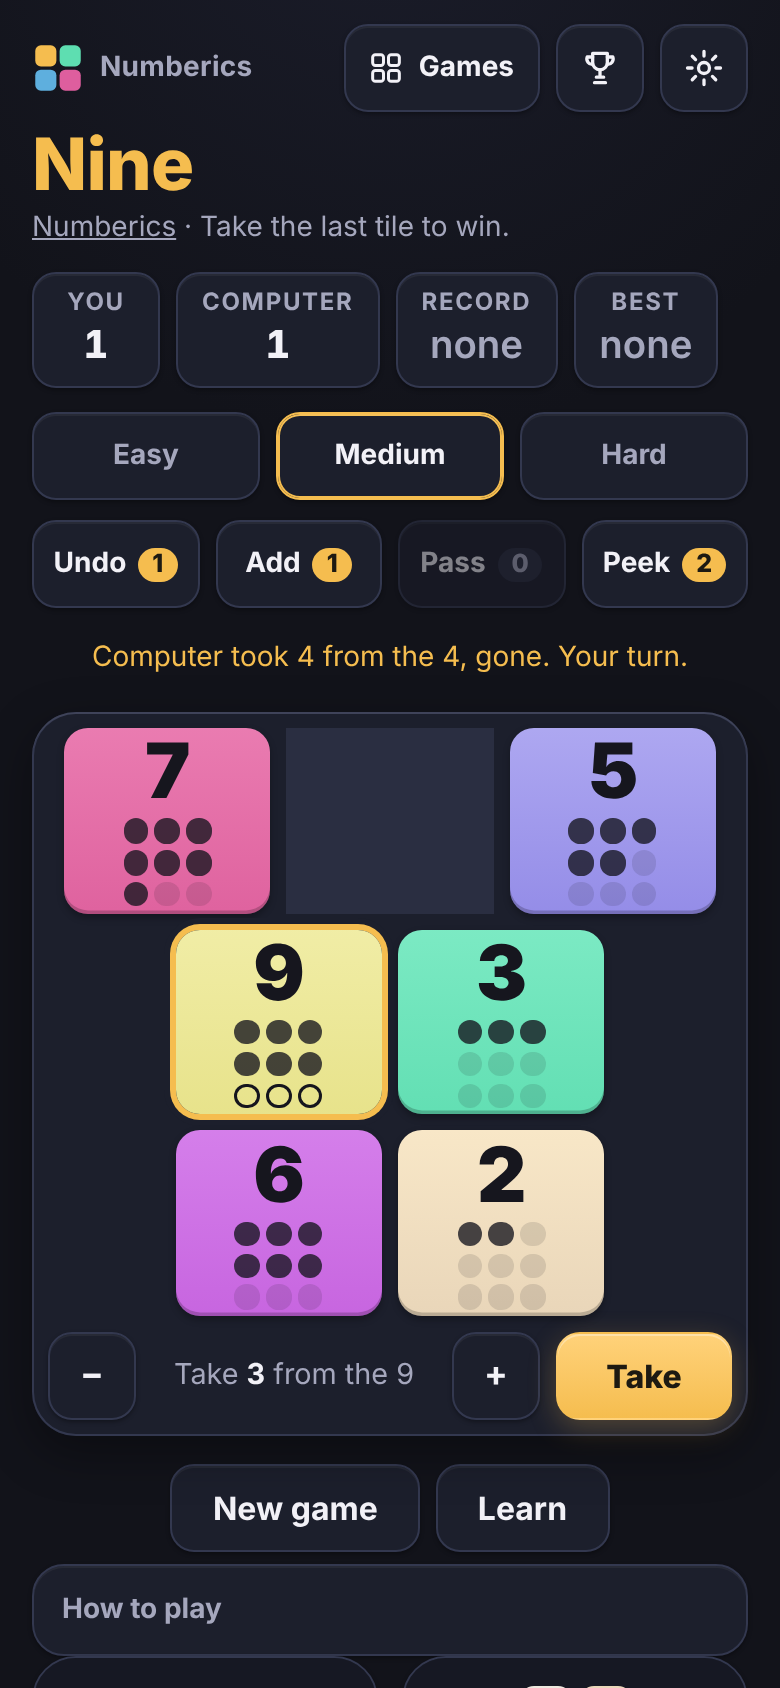
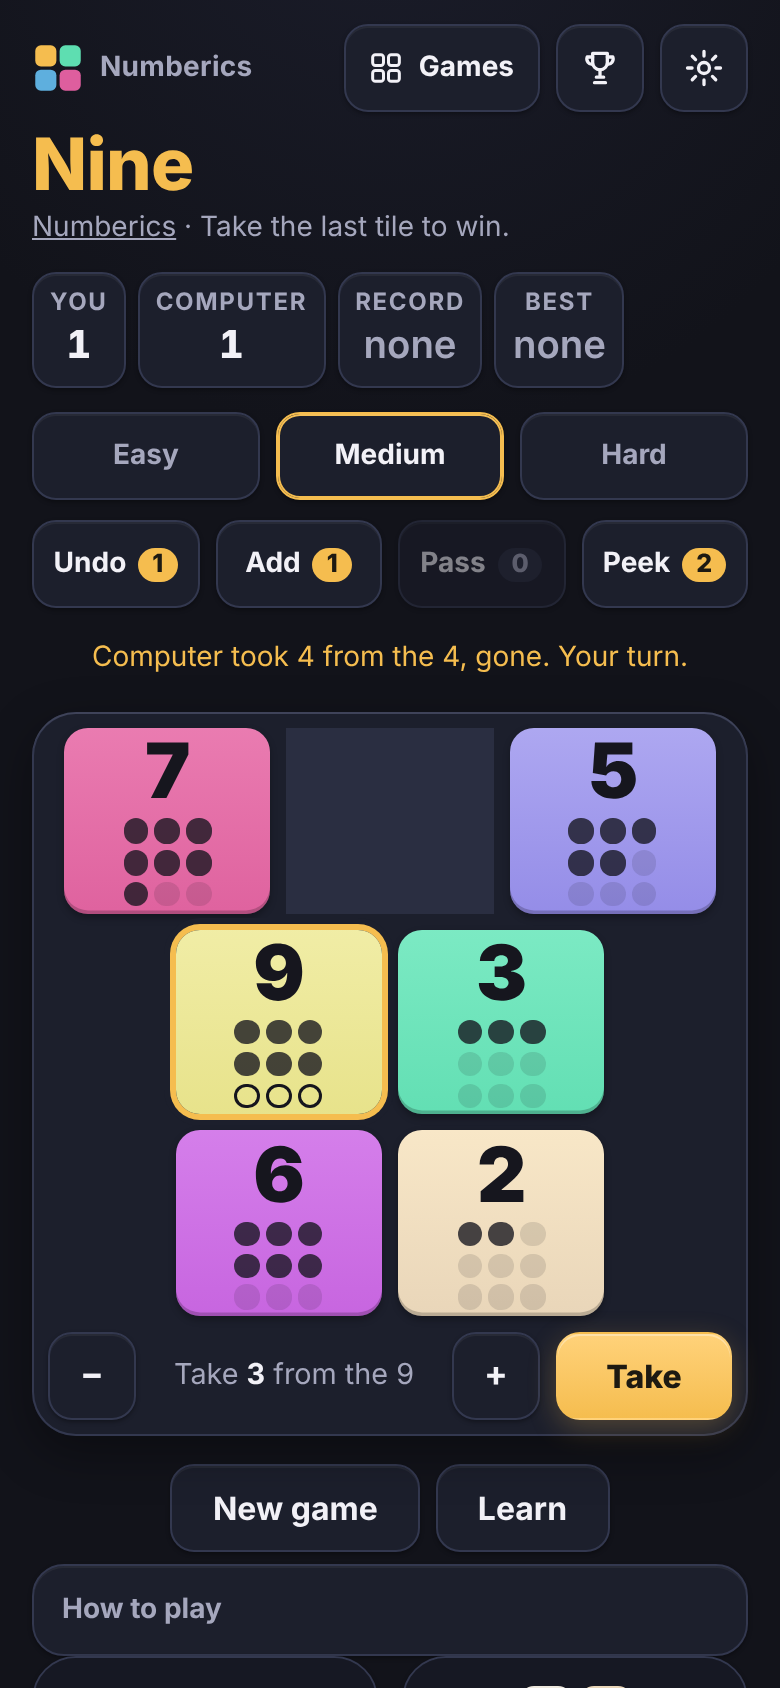
Integration pass: every gate green on a quiet machine
Sheet focus and key guard fixed (Three's crash); first-tap long task cut by
building music buffers and the reverb in short tasks (identical audio, tested);
trophy pills scroll inside end cards; quiet reports set the cup dot; family
trophies earned mid-play wait for an idle moment; four-pill stat rows at
361-420 px; card previews no longer pick up page CSS; root Today card keeps
its height (load CLS 0.057 -> 0.017); Fifteen win line hidden until drawn.
npm test 818/0; browser 140 + 1750, 0 failed; full perf gate PASS.

Changed region(s): [[0.0615, 0.154, 0.9231, 0.2156]]

diff --git a/style.css b/style.css
@@ -251,6 +251,9 @@ details.how p{ margin:0 14px 12px; color:var(--mute); font-size:var(--fs-sm); }
 .tag.new{ color:var(--good); background:color-mix(in srgb, var(--good) 14%, transparent); }
 .today{ background:linear-gradient(160deg, var(--panel-2), var(--panel)); border:1px solid var(--line); border-radius:var(--r-lg);
   padding:14px 16px; margin:0 0 20px; box-shadow:var(--sh-2); }
+/* the root page draws Today from nav.js after the first paint: the empty card keeps its drawn height until then, so the
+   heading and the cards below it never jump on load (integration: desktop load CLS 0.057 > 0.05) */
+#today.today:empty{ min-height:146px; }
 .today .when{ display:flex; justify-content:space-between; align-items:center; font-size:var(--fs-sm); color:var(--mute); font-weight:650; }
 .today .streak{ display:flex; align-items:center; gap:6px; color:var(--accent-text); font-weight:800; }
 .today .streak svg{ width:18px; height:18px; fill:none; stroke:currentColor; stroke-width:1.7; stroke-linecap:round; stroke-linejoin:round; }
@@ -271,8 +274,8 @@ details.how p{ margin:0 14px 12px; color:var(--mute); font-size:var(--fs-sm); }
 .pv .sq9 span.c{ color:var(--cool); }
 .pv .eq{ display:flex; gap:4px; align-items:center; font-weight:850; font-size:13px; }
 .pv .eq .op{ color:var(--mute); }
-.pv .pips{ display:grid; grid-template-columns:repeat(3,4px); gap:2px; margin-top:2px; }
-.pv .pips i{ width:4px; height:4px; border-radius:50%; background:var(--tile-ink); opacity:.75; }
+.pv .pips{ display:grid; grid-template-columns:repeat(3,4px); gap:2px; margin-top:2px; min-height:auto; } /* min-height: Seven's own .pips sets one */
+.pv .pips i{ width:4px; height:4px; border:0; border-radius:50%; background:var(--tile-ink); opacity:.75; } /* border:0: a game page's own .pips i (Five, Six, Seven) never rings the Nine card's dots */
 .foot-note{ color:var(--faint); font-size:var(--fs-xs); text-align:center; margin:22px 0 4px; }
 
 /* ===== reduced motion: the OS query until settings.js drives html[data-motion] (B1) ===== */

diff --git a/shared/theme.css b/shared/theme.css
@@ -83,6 +83,12 @@ h1{ margin:0; font-size:var(--fs-2xl); line-height:1.05; letter-spacing:-.01em; 
 .stat > span{ display:block; font-size:var(--fs-xs); font-weight:650; text-transform:uppercase; letter-spacing:.07em; color:var(--mute); }
 .stat b{ font-size:var(--fs-lg); font-weight:800; font-variant-numeric:tabular-nums; }
 .stat b.none,.stat .none{ color:var(--mute); font-weight:600; font-size:var(--fs-lg); }
+/* a row of four pills (Four, Nine) keeps one row on phones from 361 to 420 px wide, where an empty value ("none") made
+   the last pill wrap alone (integration): a little less side padding and gap; rows that fit look the same elsewhere */
+@media (min-width:361px) and (max-width:420px){
+  .stats:has(> .stat:nth-child(4)){ gap:6px; }
+  .stats:has(> .stat:nth-child(4)) > .stat{ padding-left:8px; padding-right:8px; min-width:0; }
+}
 
 /* ===== power-up tray: 4 slots, gold count badges ===== */
 .tray{ display:grid; grid-template-columns:repeat(4,1fr); gap:8px; margin-bottom:6px; }
@@ -259,8 +265,8 @@ details.how p{ margin:0 14px 12px; color:var(--mute); font-size:var(--fs-sm); }
 .pv .sq9 span.c{ color:var(--cool); }
 .pv .eq{ display:flex; gap:4px; align-items:center; font-weight:850; font-size:13px; }
 .pv .eq .op{ color:var(--mute); }
-.pv .pips{ display:grid; grid-template-columns:repeat(3,4px); gap:2px; margin-top:2px; }
-.pv .pips i{ width:4px; height:4px; border-radius:50%; background:var(--tile-ink); opacity:.75; }
+.pv .pips{ display:grid; grid-template-columns:repeat(3,4px); gap:2px; margin-top:2px; min-height:auto; } /* min-height: Seven's own .pips sets one */
+.pv .pips i{ width:4px; height:4px; border:0; border-radius:50%; background:var(--tile-ink); opacity:.75; } /* border:0: a game page's own .pips i (Five, Six, Seven) never rings the Nine card's dots */
 .foot-note{ color:var(--faint); font-size:var(--fs-xs); text-align:center; margin:22px 0 4px; }
 
 /* ===== reduced motion: the OS query until settings.js drives html[data-motion] (B1) ===== */

diff --git a/fifteen/game.js b/fifteen/game.js
@@ -235,7 +235,8 @@
   }
   // the winning line in Grid view: one SVG line through the three centres, drawn by stroke-dashoffset (5.8, as Four)
   var wl = $("wl"), wlLine = wl.firstElementChild;
-  function clearLine() { wl.hidden = true; }
+  // an <svg> has no `hidden` property (only HTML elements do): set the attribute, which .wl[hidden] hides
+  function clearLine() { wl.setAttribute("hidden", ""); }
   function drawLine() {
     var res = state.result;
     if (!res || !res.line || view !== "grid") return clearLine();
@@ -245,7 +246,7 @@
     var x1 = ra.left + ra.width / 2 - base.left, y1 = ra.top + ra.height / 2 - base.top;
     var x2 = rb.left + rb.width / 2 - base.left, y2 = rb.top + rb.height / 2 - base.top, len = Math.hypot(x2 - x1, y2 - y1);
     wlLine.setAttribute("x1", x1); wlLine.setAttribute("y1", y1); wlLine.setAttribute("x2", x2); wlLine.setAttribute("y2", y2);
-    wlLine.style.strokeDasharray = len; wlLine.style.strokeDashoffset = 0; wl.hidden = false;
+    wlLine.style.strokeDasharray = len; wlLine.style.strokeDashoffset = 0; wl.removeAttribute("hidden");
     var an = M.play(wlLine, [{ strokeDashoffset: len }, { strokeDashoffset: 0 }], { duration: M.T.line, easing: M.E.out }, [{ opacity: 0 }, { opacity: 1 }]);
     if (an) anims.push(an);
   }

diff --git a/sudoku/style.css b/sudoku/style.css
@@ -240,8 +240,8 @@ details.how p{ margin:0 14px 12px; color:var(--mute); font-size:var(--fs-sm); }
 .pv .sq9 span.c{ color:var(--cool); }
 .pv .eq{ display:flex; gap:4px; align-items:center; font-weight:850; font-size:13px; }
 .pv .eq .op{ color:var(--mute); }
-.pv .pips{ display:grid; grid-template-columns:repeat(3,4px); gap:2px; margin-top:2px; }
-.pv .pips i{ width:4px; height:4px; border-radius:50%; background:var(--tile-ink); opacity:.75; }
+.pv .pips{ display:grid; grid-template-columns:repeat(3,4px); gap:2px; margin-top:2px; min-height:auto; } /* min-height: Seven's own .pips sets one */
+.pv .pips i{ width:4px; height:4px; border:0; border-radius:50%; background:var(--tile-ink); opacity:.75; } /* border:0: a game page's own .pips i (Five, Six, Seven) never rings the Nine card's dots */
 .foot-note{ color:var(--faint); font-size:var(--fs-xs); text-align:center; margin:22px 0 4px; }
 :root[data-motion="full"]{ --anim:var(--m-slide); }
 :root[data-motion="reduced"]{ --anim:0ms; }

diff --git a/shared/music.js b/shared/music.js
@@ -398,10 +398,10 @@
   // chunked (live play): e.step(n) generates at most n more samples, or sets up one part, per call, and returns true once
   // the engine is complete (the same seeded samples, in the same order). Offline render builds it at once.
   var SEGS = 4;
-  function irScale(power, n, chans, sr) { // the spec's ConvolverNode normalisation (GainCalibration -58 dB at 44.1 kHz)
+  function irScale(power, n, chans, sr) { // the ConvolverNode normalisation of the Web Audio spec (RMS, calibrated at 44.1 kHz)
     var rms = Math.sqrt(power / (chans * n));
     if (!isFinite(rms) || rms < 0.000125) rms = 0.000125;
-    return 1 / rms * 0.00125 * (sr ? 44100 / sr : 1);
+    return 1 / rms * Math.pow(10, -58 / 20) * (sr ? 44100 / sr : 1); // -58 dB, as Chromium and WebKit compute it
   }
   function engine(c, dest, chunked) {
     var e = { c: c, waves: {}, mix: c.createGain(), duck: c.createGain(), verb: c.createGain(), wet: c.createGain(), n: 0, live: 0 };

diff --git a/fifteen/index.html b/fifteen/index.html
@@ -35,7 +35,7 @@
   <div id="board" class="board" tabindex="0" aria-label="The numbers 1 to 9. Arrow keys move, Enter claims.">
     <div id="hash" class="hash" aria-hidden="true"><i></i><i></i><i></i><i></i></div>
     <div id="tiles" class="tiles"></div>
-    <svg id="wl" class="wl" aria-hidden="true"><line></line></svg>
+    <svg id="wl" class="wl" aria-hidden="true" hidden><line></line></svg>
     <div id="over" class="over" hidden>
       <h2 id="over-title">Round over</h2>
       <div id="trio" class="trio" role="img"></div>

diff --git a/docs/reviews/CYCLE1-NOTES.md b/docs/reviews/CYCLE1-NOTES.md
@@ -1,0 +1,57 @@
+<!-- SPDX-License-Identifier: Apache-2.0 -->
+<!-- Copyright 2026 alvations (Melon Lab) -->
+
+# Review cycle 1: notes from integration (21 Nov 2026)
+
+Open questions and judgement calls left for the panel (QA, QC, craft, perf) after the integration pass that followed
+the shared modules (B1 to B4), the root (C1) and the ten per-game packages (D). Each item says what was found, what was
+done (if anything) and what the panel should decide. Nothing here changed a rule or a tuning number.
+
+## Fixed in integration (defects, each with a test)
+
+| # | Found | Cause | Fix | Guard |
+|---|---|---|---|---|
+| I-1 | Three: keys did nothing right after the first-visit how-to closed (storage blocked, reduced motion, trophies: 4 browser failures) | The how-to opens by itself, so its opener is the body, which cannot take focus back: focus stayed on the hidden Play button, and the closed sheet's own keydown guard kept the next key from the game until the browser's next frame | `shared/ui.js`: the sheet's guard acts only while that sheet is the open one; on close, focus left inside the hidden sheet is released at once | `tests/emu/three.cjs` "Play: focus leaves the closed sheet at once" (fails on the old ui.js) |
+| I-2 | Root emu: "the games row at the foot" (8 failures) | Stale test: every game page now uses the cards (REDESIGN.md 3.2) | Test checks the cards' order and the one current card on every page | `tests/emu/root.cjs` |
+| I-3 | Seven still had the old text row at its foot | D-Seven did not swap in the cards (3.2 says the text row is removed) | `seven/index.html` uses `class="cards"`, with the row's old 10 px gap; Seven's blitz pip check now targets `#pips` (the Nine card preview has pips too) | root emu (cards on every page) |
+| I-4 | One 100 to 150 ms long task about 100 ms after the first tap, every game, 4x CPU | `shared/music.js` building its buffers (260 000 seeded samples) and the browser preparing a 2.2 s convolver kernel, all in one task | Built in slices, the reverb as four delayed parts with the whole impulse's normalisation, the first player in its own task (docs/design/MUSIC.md, Performance). Same samples, same impulse response within 0.1 % | `tests/test-music.js` (identical samples), `tests/emu/shared-music.cjs` (impulse response) |
+| I-5 | Many trophy pills pushed the end card's title and buttons outside the board | No shared rule (only Sudoku's `#win` had one) | `shared/theme.css` and root `style.css`: the pill row scrolls inside the card; a row that fits is unchanged (min height = one pill) | `tests/emu/shared-trophies.cjs` section 9, every game at 375 and 320 |
+| I-6 | `report(..., {quiet:true})` left the cup's unseen dot off | `announce()` was the only place that set it | `report()` sets the dot whenever something is earned; Fifteen's own call after its quiet report removed (Four, Five and Sudoku keep theirs, at the card's moment) | `tests/emu/shared-trophies.cjs` section 8 |
+| I-7 | Night owl (and High five, The whole set) toasted over the hint line mid-move | Family trophies fire on any event, so on a move | Family trophies earned mid-play wait for an idle moment: 1.6 s with no key or tap, no sheet, card or other toast up, tab visible. The game's own trophies keep their moment; end, round, match, solve and saved events are unchanged | `tests/emu/shared-trophies.cjs` section 8 |
+| I-8 | Four and Nine: the last stat pill wrapped alone at 375 and 390 px on a fresh start ("none" values) | Four pills plus gaps were 369 px in a 343 to 358 px row | `shared/theme.css`: rows of four pills, 361 to 420 px only, side padding 12 to 8 px and gap 8 to 6 px | `tests/emu/root.cjs` "stat pills sit on one row", every game at 375 and 390 |
+| I-9 | The Nine card's preview dots had rings on Five, Six and Seven pages, and were squeezed on Seven | Those games' own `.pips` / `.pips i` rules reached the shared preview | `.pv .pips i{border:0}` and `.pv .pips{min-height:auto}` in theme.css, root style.css and sudoku/style.css | `tests/emu/root.cjs` "card previews look as on the root page" |
+| I-10 | shared-settings and root emu skipped a first-visit sheet only when it was `#help` (gone) | Stale guard | Close whichever sheet is open, generically, after two frames | both emu files |
+| I-11 | Five emu "music ducks" failed once in a full run | Race in the test: its spy on the music stub was lost when the lazy loader swapped in the real module after a tap | The spy wraps whatever object becomes `NumbericsMusic` (a setter), and the real duck still runs | `tests/emu/five.cjs` |
+| I-12 | Perf gate: root (Two) desktop load CLS 0.057 > 0.05, every run | The Today card is in the markup empty and drawn by nav.js after the first paint, pushing the heading and lede down 116 px | root `style.css`: `#today.today:empty{min-height:146px}` (its drawn height); measured 0.017 after, perf PASS | `tests/emu/root.cjs` "desktop root: load layout shift under 0.05" |
+| I-13 | Fifteen: a white dot in the board's top-left corner (both screenshots) | The win line is an `<svg>`, which has no `hidden` property: `wl.hidden = true` set a plain JS field, so the zero-length round-capped line always drew, and was never hidden after a win | `fifteen/index.html` starts it `hidden`; `fifteen/game.js` sets and removes the attribute | `tests/emu/fifteen.cjs`: hidden on a fresh board; the Grid-win check now tests real visibility |
+
+## For the panel
+
+1. **SPDX and Copyright comment lines.** Docs carry two comment lines (`SPDX-License-Identifier: Apache-2.0`, then
+   `Copyright 2026 alvations (Melon Lab)`); pages and code carry one (`SPDX ... | Copyright ...`). 21 of 33 page and doc
+   headers have the SPDX line without the copyright on the same line (the copyright is the next line). Both pass the
+   convention test. Panel: keep both forms, or settle on one (a mechanical change, no visible effect)?
+2. **Space above the games cards at the page foot** is not one value: 0 px under the How to play row on Five, Six,
+   Nine and Fifteen (the cards touch the row's panel), 10 px Seven, 18 px Sudoku, 22 px Four; Fibonacci and Three put a
+   "More number games" / "Ten number games" heading over them. Not changed here (design). Panel: one treatment for all.
+3. **I-8 is a visible change** on Four and Nine between 361 and 420 px (a little less padding in the four pills). It
+   fixes a layout regression at 375 (REDESIGN.md 11, A1 acceptance), but the panel should confirm the look.
+4. **I-7 idle delay** is 1.6 s with no input. Tune if it reads late; a player who never pauses sees the toast at the
+   next pause after the game (the trophy is saved and the cup's dot shows at once either way).
+5. **The cup dot after a quiet report** now shows at the report (I-6). On Four the report is at the end of the move,
+   during the short hold before the card, so the dot can appear a moment before the card. Panel: fine, or hold it?
+6. **The first tap is still one 55 to 60 ms task on Two and Three at 4x CPU**: the browser's own `new AudioContext()`
+   (about 25 ms, must run inside the gesture for iOS) plus the game's first move (25 to 50 ms, first-run compile of the
+   move path). Within the play budget (200 ms phone). Further cuts would mean moving game work out of the input handler,
+   which the input-to-visual budget forbids.
+7. **Sudoku's copied CSS** gives the Five and Six card previews a one-pixel shorter line (its own body line-height).
+   Kept: Sudoku keeps its own CSS by rule. Panel: copy the preview line-height into sudoku/style.css?
+8. **No shared how-to helper**: each game builds its own three-step sheet (the TODO list). Not a blocker; consider
+   consolidating after the cycle.
+9. **Relaxed emu frame thresholds** (idle x1.3 and similar) were set under machine load. The integration run on a quiet
+   machine is green with them; re-tightening each is left to the perf reviewer with the numbers from that run.
+10. **One flake seen once under load**: shared-settings "the close button is at least 44 x 44" failed in one full run
+    while another job shared the machine, then passed alone and in the next full run. The sheet's open animation is
+    translate only, so the cause is not found; QA should watch for it.
+11. **shared-motion p95 at 4x CPU** read 33.3 ms against 33 under load earlier; see the perf table of this cycle's
+    run for the quiet-machine value.

diff --git a/docs/design/MUSIC.md b/docs/design/MUSIC.md
@@ -103,6 +103,17 @@ switches through every style. Compiling a style costs 0.3 to 5 ms, once per styl
 is the browser's own `new AudioContext()` (about 21 ms here). With the shared context (below) the tap makes only the
 SFX one; the music plugs into it.
 
+**The first-tap long task (integration, 21 Nov).** At 4x CPU every game showed one 100 to 150 ms task about 100 ms after
+the first tap. Profiled: the engine's buffers (the 2.2 s stereo reverb impulse and one second of noise, about 260 000
+seeded samples, ~95 ms) and the browser preparing one 2.2 s `ConvolverNode` kernel (~75 ms, measured in isolation).
+Now the live engine builds in short tasks: the samples in slices of 40 000 (`e.step`), then the reverb as four equal
+parts, each its own un-normalised convolver fed through a delay of its offset (convolution is linear, so the sum is the
+whole impulse), with the Web Audio normalisation of the whole impulse applied once (`irScale`), then the first player in
+a task of its own. Every task is under 35 ms at 4x CPU; the music starts about 200 ms after the tap instead of about
+150 ms, inside its 2.5 s fade-in. Same sound: the seeded samples are identical (`tests/test-music.js`), and the impulse
+response through the parts matches one convolver of the whole impulse within 0.1 % of its peak and 0.01 dB
+(`tests/emu/shared-music.cjs`). Offline render uses the same parts, built at once.
+
 ### One context, shared with `shared/audio.js` (built)
 SFX and music share **one AudioContext**, owned by `audio.js`. Why: every `new AudioContext()` costs about 21 ms on
 the tap that makes it (measured), so two contexts double the work of the first tap; one context is one audio thread
